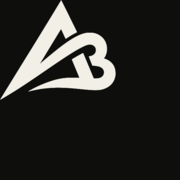
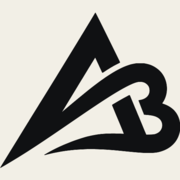
Keep the browser identity faithful to the original AgentBase mark
Use the same dark artwork as the preview, centered on transparency. Flatten
SVG viewport geometry so raster icons retain the intended placement.

Constraint: The original transparent dark mark is the approved favicon.
Rejected: Light mark on a dark tile | differs from the approved identity and preview.
Confidence: high
Scope-risk: narrow
Directive: Keep browser icons transparent and avoid nested SVG viewport offsets in raster generation.
Tested: pnpm verify (105 tests); Safari address-bar screenshot; 77 local deployment responses; regeneration stability; old black plate and off-center ICO both rejected by regression checks.
Not-tested: Physical iOS home-screen installation.

diff --git a/tests/brand.test.ts b/tests/brand.test.ts
@@ -59,4 +59,45 @@ describe("icon set", () => {
     // A truncated path would still be valid SVG and would still render *something*.
     expect(svg).toContain(MARK_PATH.slice(0, 80));
   });
+
+  it("keeps the original dark mark on a transparent browser icon", () => {
+    const svg = readFileSync("app/icon.svg", "utf8");
+    expect(svg).toContain('fill="#101113"');
+    expect(svg).not.toContain("<rect");
+    // Nested SVG offsets were ignored by the ICO rasterizer.
+    expect(svg.match(/<svg\b/g)).toHaveLength(1);
+  });
+
+  it("centers dark artwork on transparency in every ICO size", () => {
+    const ico = readFileSync("app/favicon.ico");
+    expect(ico.readUInt16LE(4)).toBe(3);
+    for (const [index, size] of [16, 32, 48].entries()) {
+      const entry = 6 + index * 16;
+      expect(ico[entry]).toBe(size);
+      expect(ico[entry + 1]).toBe(size);
+      const bitmap = ico.readUInt32LE(entry + 12);
+      expect(ico.readUInt32LE(bitmap)).toBe(40); // BITMAPINFOHEADER
+      expect(ico.readUInt16LE(bitmap + 14)).toBe(32); // BGRA
+      const ink: { x: number; y: number }[] = [];
+      let transparent = 0;
+      for (let y = 0; y < size; y++) {
+        for (let x = 0; x < size; x++) {
+          const pixel = bitmap + 40 + ((size - 1 - y) * size + x) * 4;
+          const alpha = ico[pixel + 3]!;
+          if (alpha === 0) transparent++;
+          if (alpha > 128) {
+            expect(Math.max(...ico.subarray(pixel, pixel + 3))).toBeLessThan(40);
+            ink.push({ x, y });
+          }
+        }
+      }
+      expect(transparent / (size * size)).toBeGreaterThan(0.4);
+      expect(ink.length).toBeGreaterThan(size * size * 0.2);
+      for (const axis of ["x", "y"] as const) {
+        const min = Math.min(...ink.map(point => point[axis]));
+        const max = Math.max(...ink.map(point => point[axis]));
+        expect(Math.abs((min + max) / 2 - (size - 1) / 2)).toBeLessThanOrEqual(1);
+      }
+    }
+  });
 });
